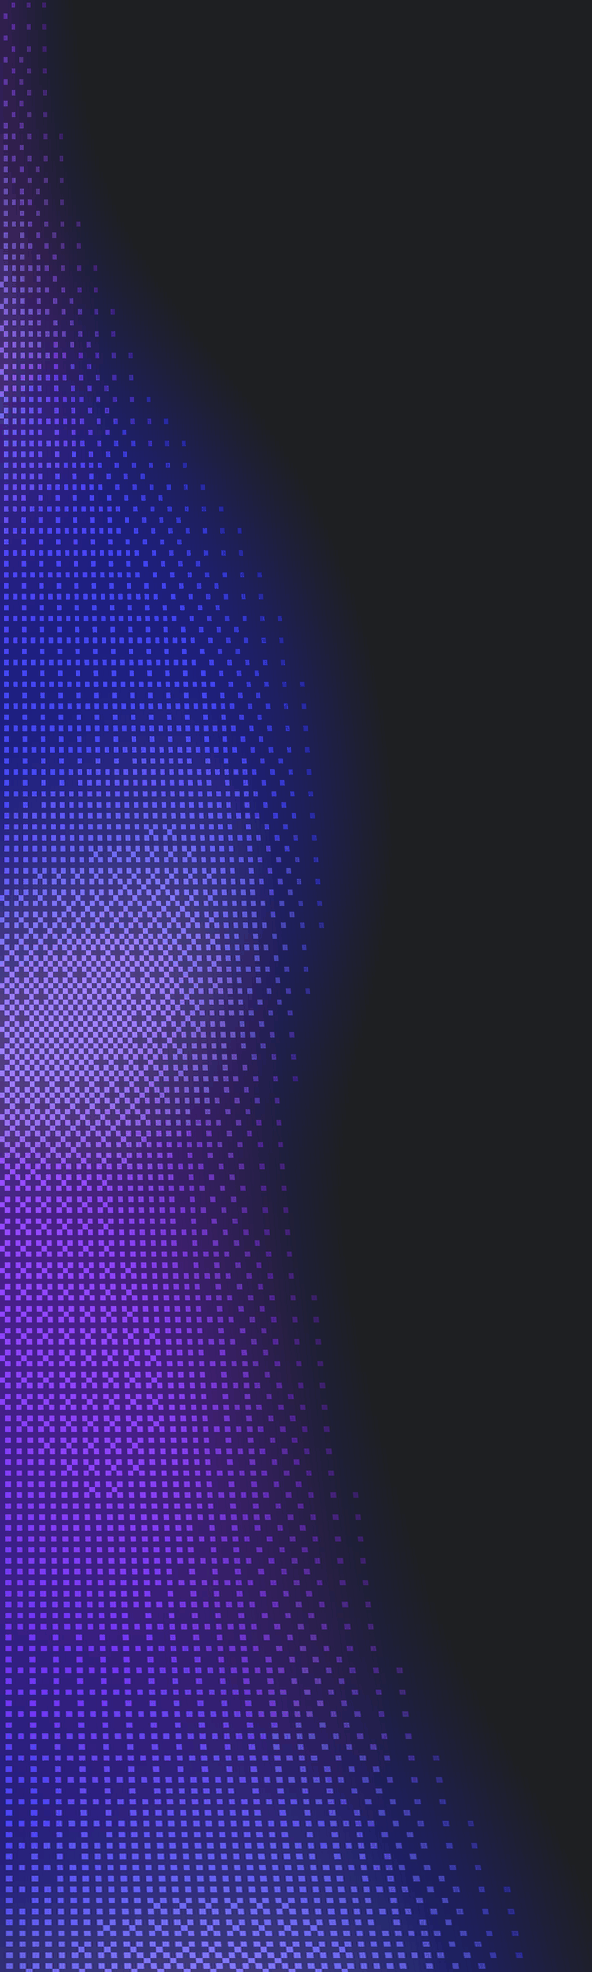
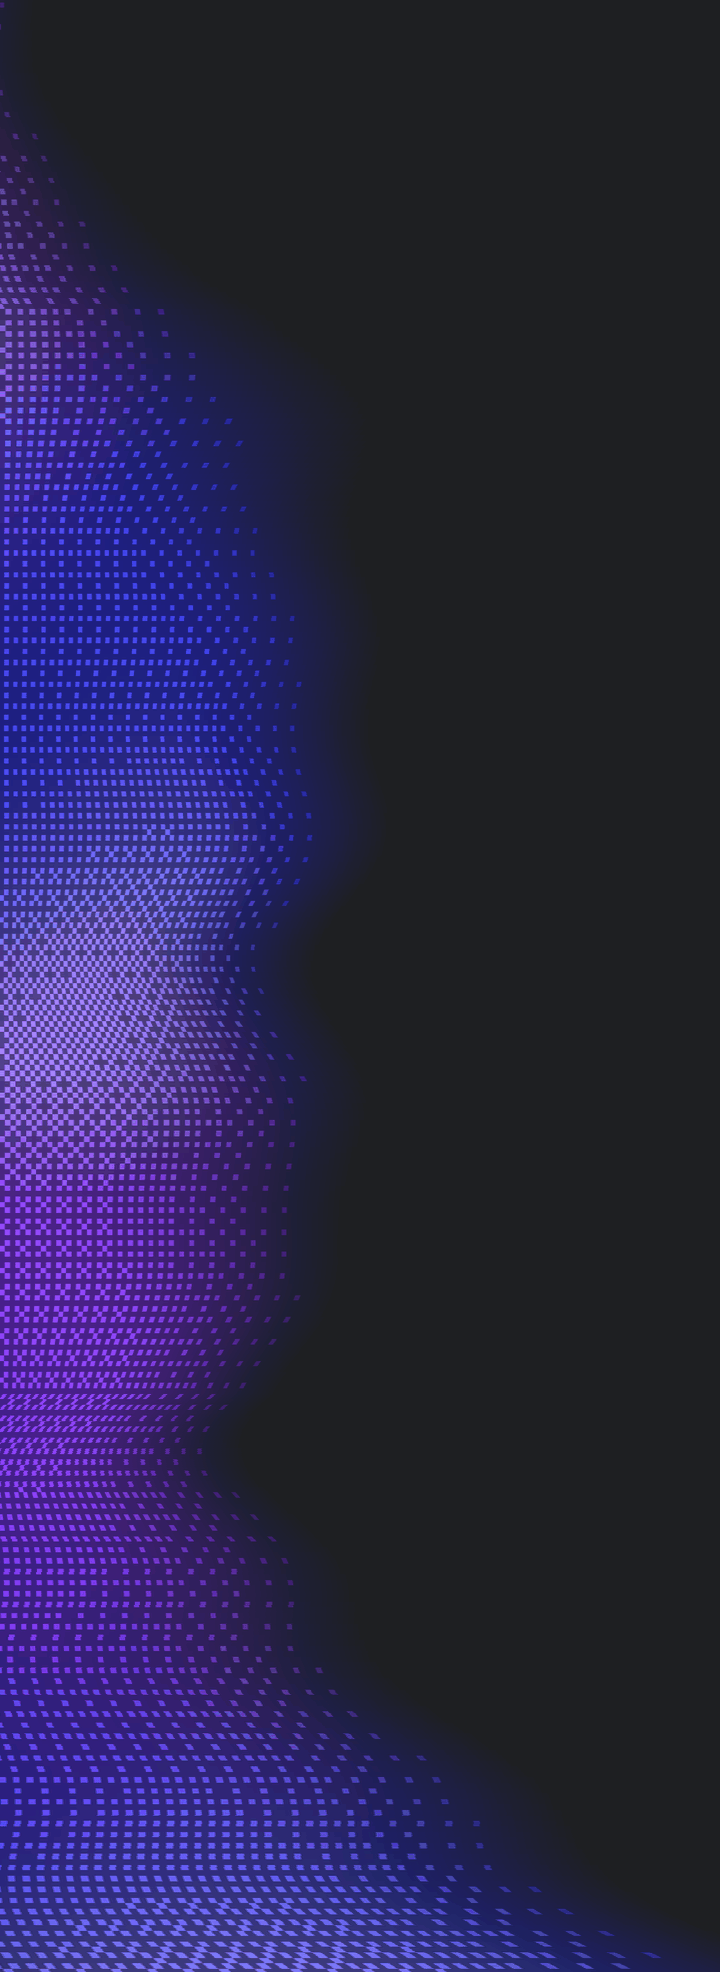
feat(web): Westworld thread dither undulates along its edge
Noey wanted the strip more deformed. Warp the Figma raster row by row with
smooth low-frequency noise on top of the taper — width ±45%, rows pulled up
to 12% into the edge and never off it — so the silhouette undulates instead
of reading as one smooth column. Same composite otherwise (169 KB, median cut).

Changed region(s): [[0.0, 0.0, 0.9122, 1.0]]

diff --git a/apps/web/src/theme.custom.westworld.css b/apps/web/src/theme.custom.westworld.css
@@ -75,15 +75,17 @@
    The frame places Noey's "blobditherbluepurp" export (layer 447:15859,
    758×1011 at -357,-15 on a 971×1008 card, blend mode lighten) so only its
    right 53% shows; the asset here is that window, flattened over black,
-   flipped vertically and tapered (0.7× wide at the top, 1.2× at the bottom)
-   because Noey wanted it thin at the top and thick at the bottom, then
+   flipped vertically, tapered (0.7× wide at the top, 1.2× at the bottom)
+   because Noey wanted it thin at the top and thick at the bottom, and
+   warped row by row with smooth low-frequency noise (width ±45%, rows
+   pulled up to 12% into the edge, never off it) so the silhouette
+   undulates instead of reading as one smooth column, then
    lightened onto the card colour — lighten is what the frame does, and it
    is what lets the black between the dots vanish into the card — and
-   cropped to the 296px it reaches (about 30% of the frame's card). It
+   cropped to the 360px it reaches (about 37% of the frame's card). It
    paints as a `left top / auto 100%` layer, so it scales with the card
    height and the rest of the card stays the flat colour. Quantized to 256 colours with median cut (octree steps the glow's
-   falloff into a visible staircase; median cut does not): 212 KB against
-   573 KB truecolour, no channel more than 25 levels off.
+   falloff into a visible staircase; median cut does not): 169 KB against truecolour, no channel more than 25 levels off.
 
    ::after is the new-agent draft (Figma 416:8420, layer 421:12528,
    "doloresbluedither4"): the blue portrait at full strength under a
@@ -105,7 +107,7 @@
 
    westworld-hero.png is the Figma export quantized to 256 colours (octree),
    171 KB against 1.3 MB (no channel more than 14 levels off);
-   westworld-thread.png is the 592×1972 left blob strip, 256 colours (median cut), 212 KB. */
+   westworld-thread.png is the 720×1972 left blob strip, 256 colours (median cut), 169 KB. */
 :root[data-fork="noahhendrickson-t3code"].dark[data-fork-theme="cool-dark"]
   [data-chat-workspace-drop-target="true"]::before {
   content: "";
